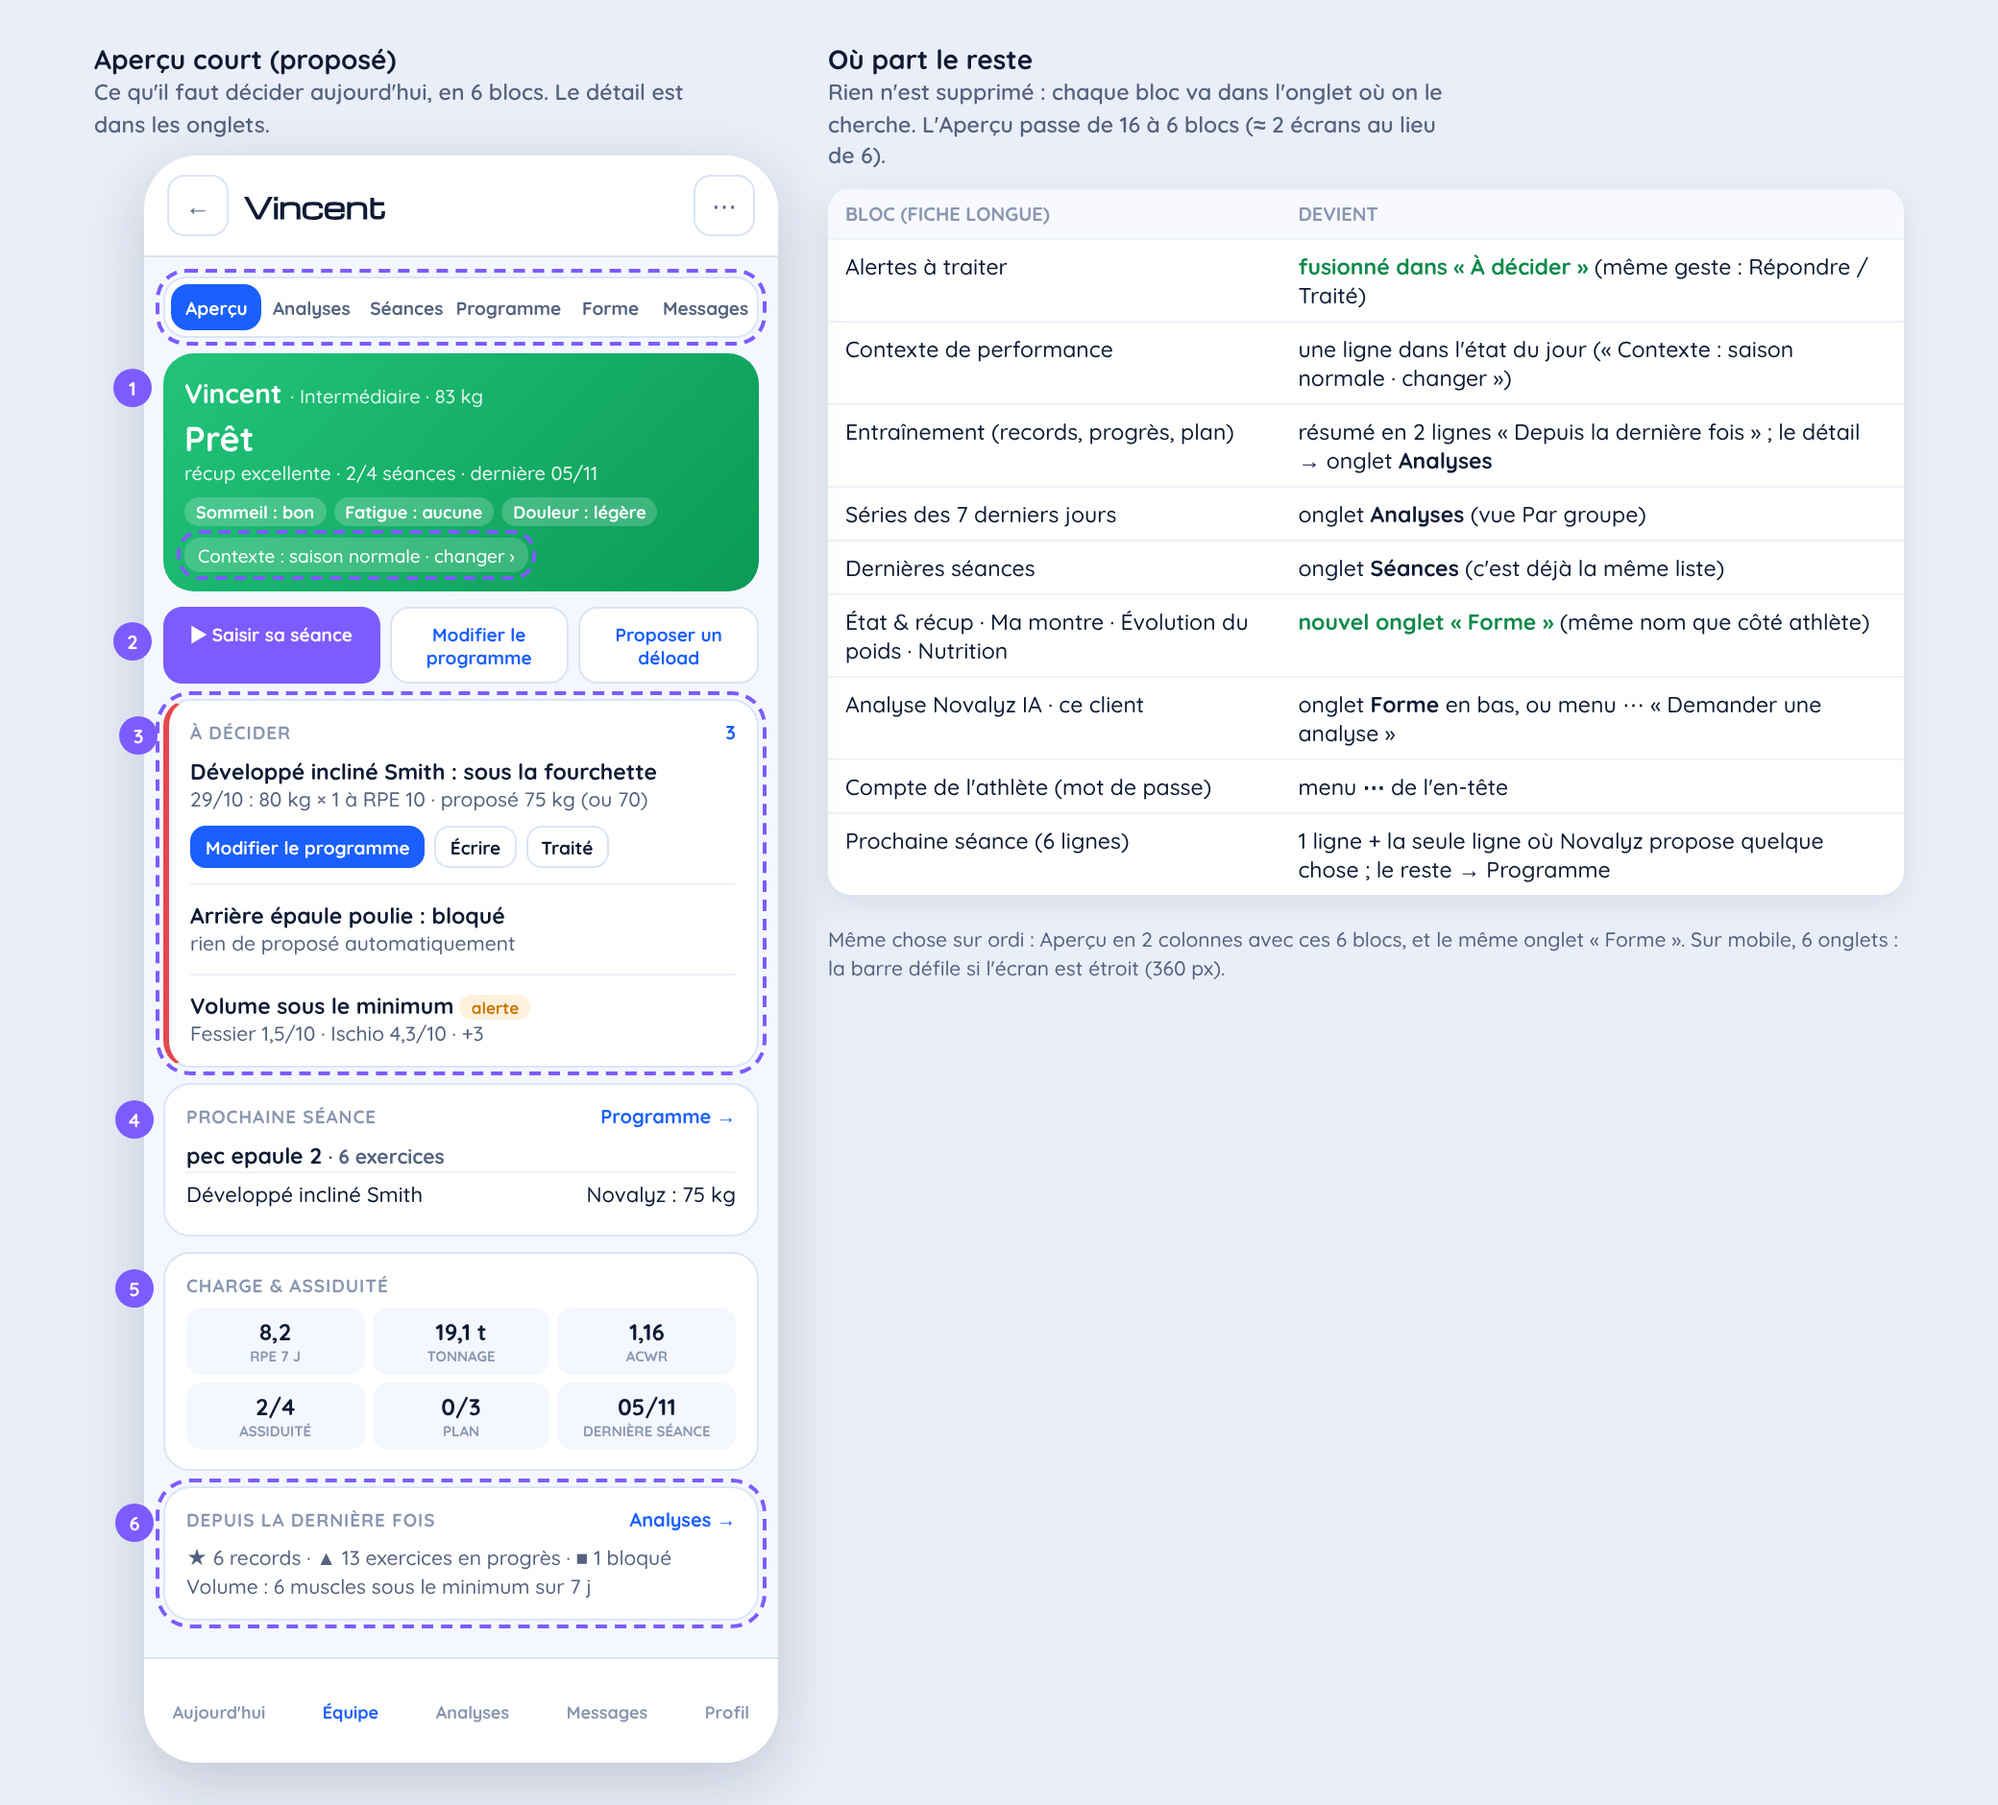
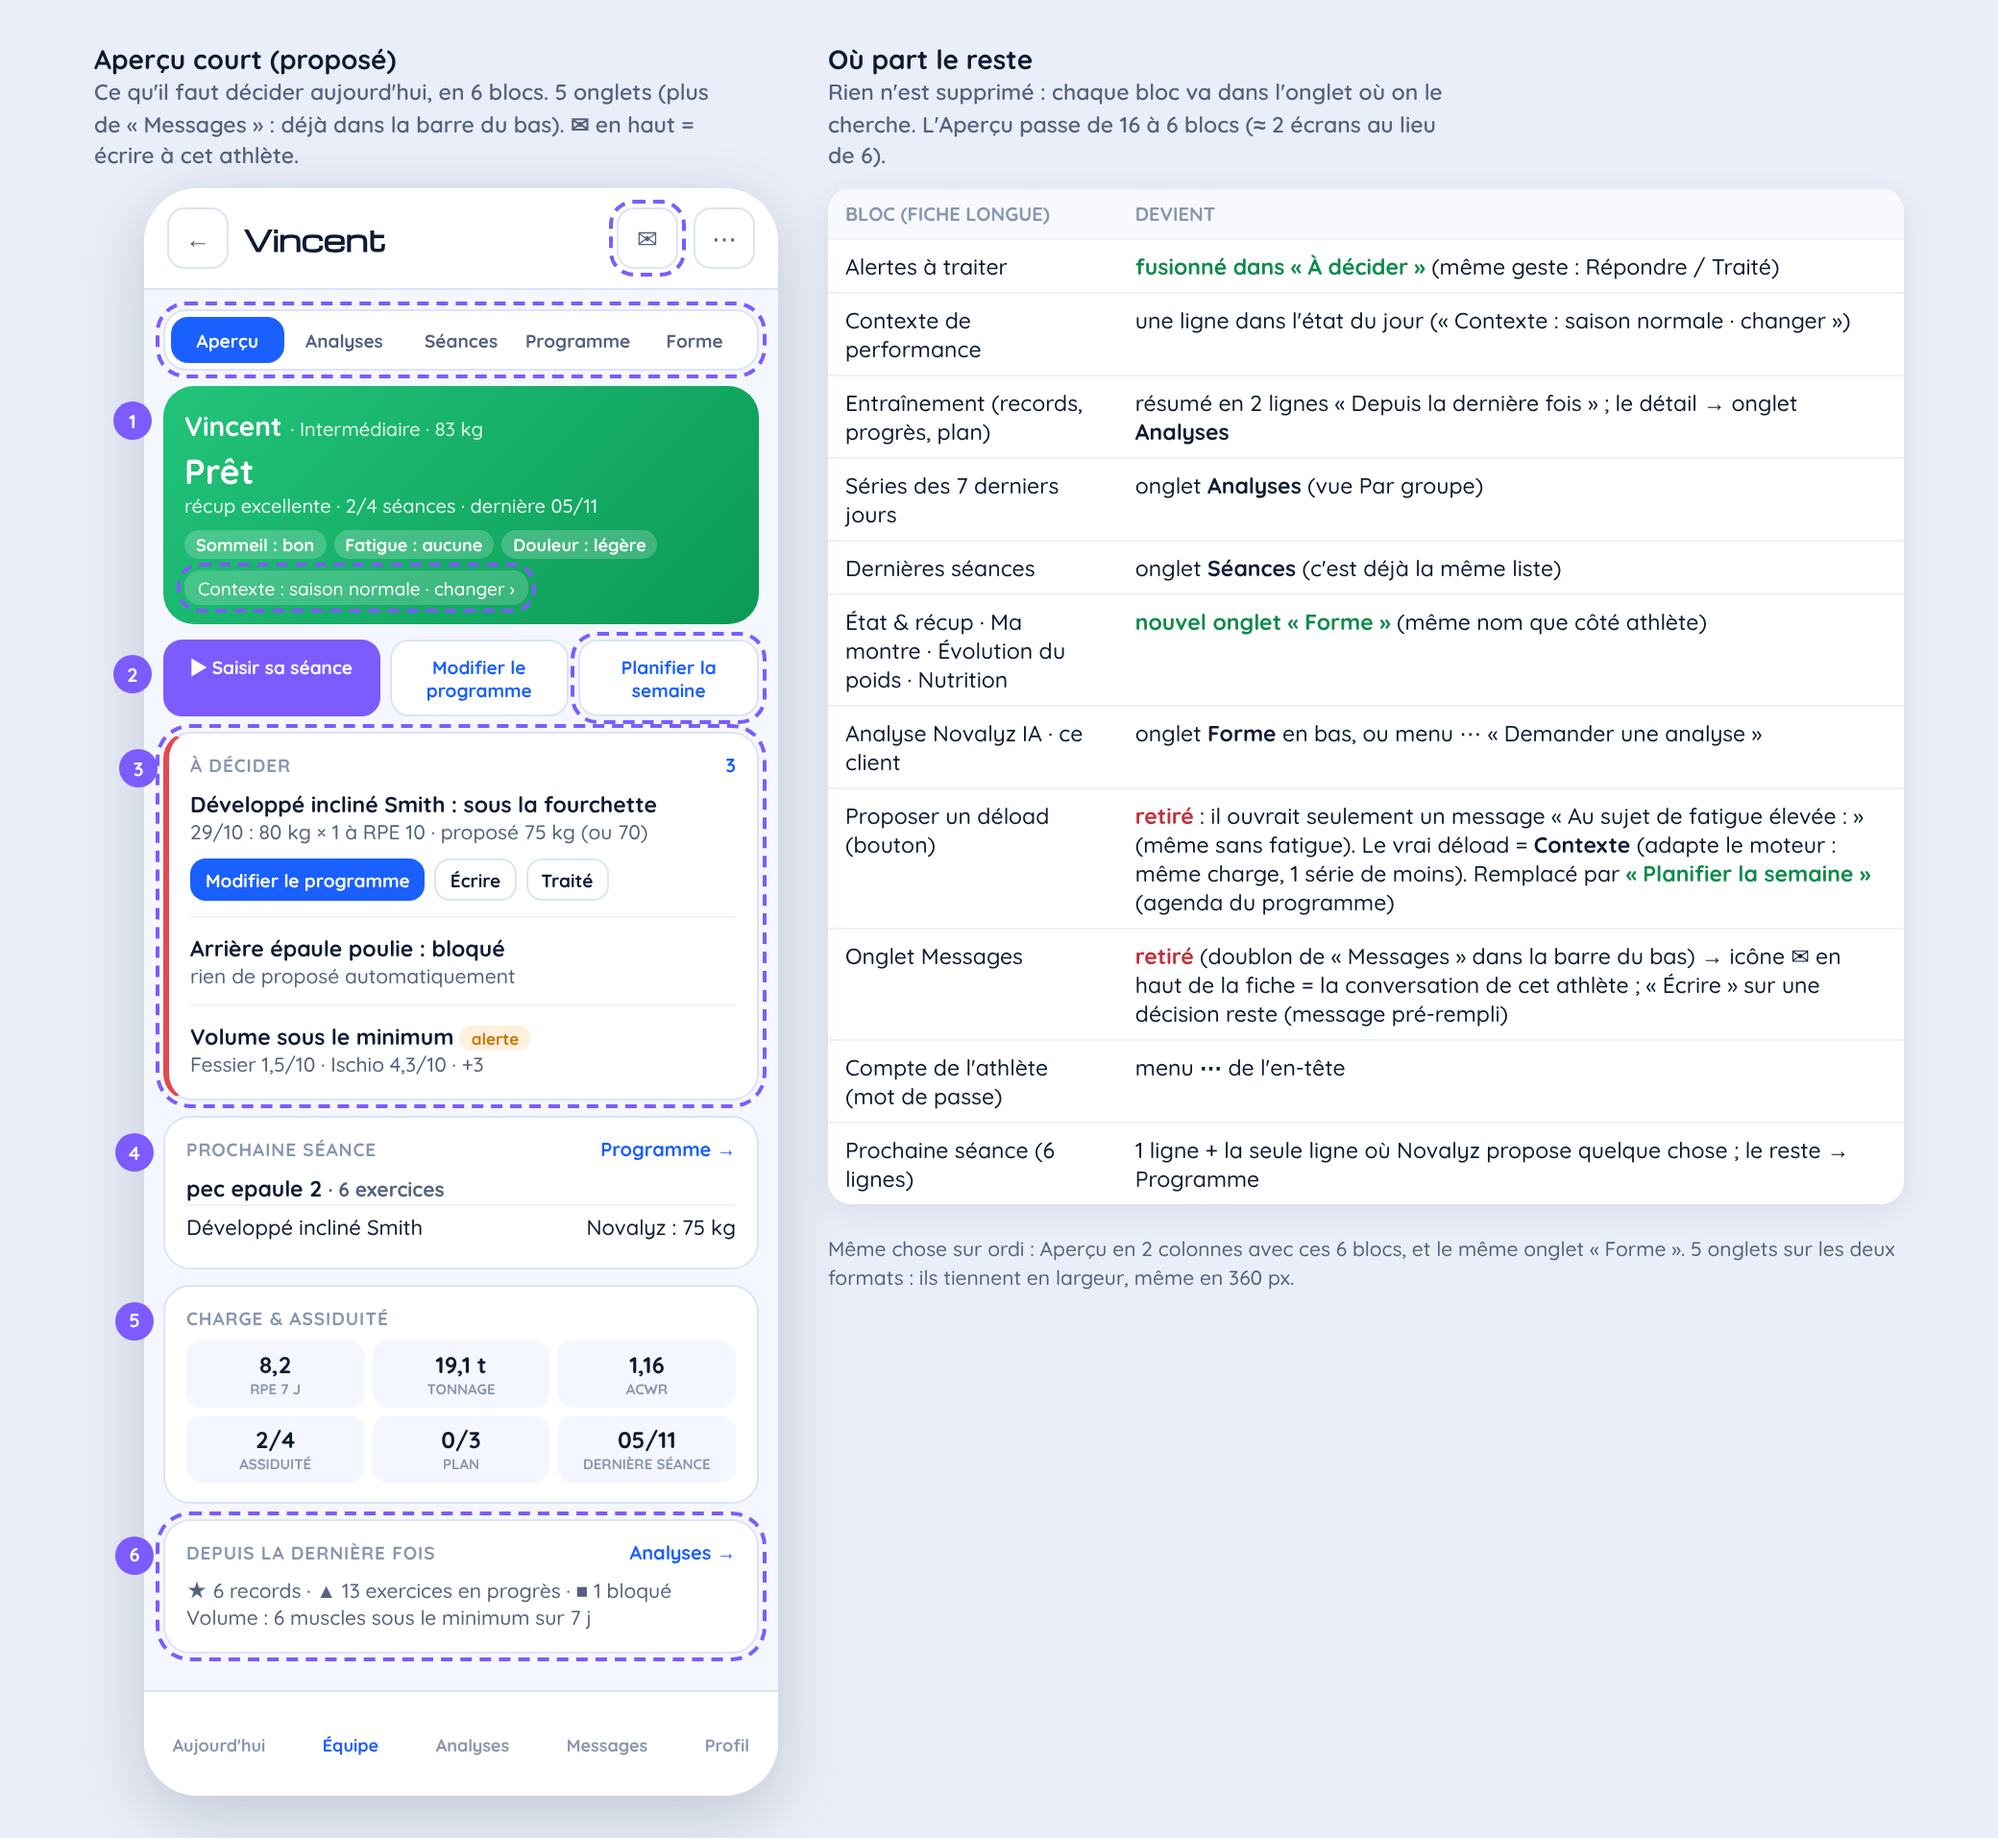
Maquette fiche courte : 5 onglets (Messages retiré, ✉ en en-tête), « Proposer un déload » remplacé par « Planifier la semaine »
Claude-Session: https://claude.ai/code/session_01Cg9q2H2KbjYxG63Do6Xty1

diff --git a/mockups/coach-fiche-courte.html b/mockups/coach-fiche-courte.html
@@ -31,11 +31,11 @@ body{margin:0;background:#E9EEF8;font-family:Quicksand,Arial;color:var(--tx)}
 .del{color:#C0303A;font-weight:800}.add{color:#0f8a4b;font-weight:800}
 .new{outline:2px dashed var(--vi);outline-offset:2px}
 </style></head><body><div class="wrap">
-<div class="col"><div class="cap">Aperçu court (proposé)<small>Ce qu'il faut décider aujourd'hui, en 6 blocs. Le détail est dans les onglets.</small></div>
-<div class="ph" style="margin-left:26px"><div class="hd"><span class="ib">←</span><h1>Vincent</h1><span class="ib">⋯</span></div><div class="bd">
-<div class="tabs new"><span class="on">Aperçu</span><span>Analyses</span><span>Séances</span><span>Programme</span><span>Forme</span><span>Messages</span></div>
+<div class="col"><div class="cap">Aperçu court (proposé)<small>Ce qu'il faut décider aujourd'hui, en 6 blocs. 5 onglets (plus de « Messages » : déjà dans la barre du bas). ✉ en haut = écrire à cet athlète.</small></div>
+<div class="ph" style="margin-left:26px"><div class="hd"><span class="ib">←</span><h1>Vincent</h1><span class="ib new" title="Écrire à Vincent">✉</span><span class="ib">⋯</span></div><div class="bd">
+<div class="tabs new"><span class="on">Aperçu</span><span>Analyses</span><span>Séances</span><span>Programme</span><span>Forme</span></div>
 <div class="fh"><span class="n">1</span><b>Vincent</b> <span style="font-size:10px;opacity:.85">· Intermédiaire · 83 kg</span><div class="t">Prêt</div><div style="font-size:10px;opacity:.9">récup excellente · 2/4 séances · dernière 05/11</div><div class="p"><span>Sommeil : bon</span><span>Fatigue : aucune</span><span>Douleur : légère</span></div><div class="new" style="font-size:9.5px;margin-top:6px;background:rgba(255,255,255,.18);border-radius:8px;padding:3px 7px;display:inline-block">Contexte : saison normale · changer ›</div></div>
-<div class="act"><span class="n">2</span><span class="p">▶ Saisir sa séance</span><span>Modifier le programme</span><span>Proposer un déload</span></div>
+<div class="act"><span class="n">2</span><span class="p">▶ Saisir sa séance</span><span>Modifier le programme</span><span class="new">Planifier la semaine</span></div>
 <div class="card new" style="border-left:3px solid #E5484D"><span class="n">3</span><div class="ct">À décider <a>3</a></div><div class="x">Développé incliné Smith : sous la fourchette</div><div class="mu">29/10 : 80 kg × 1 à RPE 10 · proposé 75 kg (ou 70)</div><div class="btns"><span class="p">Modifier le programme</span><span>Écrire</span><span>Traité</span></div>
  <div class="x" style="margin-top:8px;padding-top:8px;border-top:1px solid #EEF2FB">Arrière épaule poulie : bloqué</div><div class="mu">rien de proposé automatiquement</div>
  <div class="x" style="margin-top:8px;padding-top:8px;border-top:1px solid #EEF2FB">Volume sous le minimum <span class="pill" style="font-size:8.5px;background:#FFF1DE;color:#C77700;border-radius:999px;padding:1px 6px">alerte</span></div><div class="mu">Fessier 1,5/10 · Ischio 4,3/10 · +3</div></div>
@@ -54,8 +54,10 @@ body{margin:0;background:#E9EEF8;font-family:Quicksand,Arial;color:var(--tx)}
 <tr><td>Dernières séances</td><td>onglet <b>Séances</b> (c'est déjà la même liste)</td></tr>
 <tr><td>État &amp; récup · Ma montre · Évolution du poids · Nutrition</td><td><span class="add">nouvel onglet « Forme »</span> (même nom que côté athlète)</td></tr>
 <tr><td>Analyse Novalyz IA · ce client</td><td>onglet <b>Forme</b> en bas, ou menu ⋯ « Demander une analyse »</td></tr>
+<tr><td>Proposer un déload (bouton)</td><td><span class="del">retiré</span> : il ouvrait seulement un message « Au sujet de fatigue élevée : » (même sans fatigue). Le vrai déload = <b>Contexte</b> (adapte le moteur : même charge, 1 série de moins). Remplacé par <span class="add">« Planifier la semaine »</span> (agenda du programme)</td></tr>
+<tr><td>Onglet Messages</td><td><span class="del">retiré</span> (doublon de « Messages » dans la barre du bas) → icône ✉ en haut de la fiche = la conversation de cet athlète ; « Écrire » sur une décision reste (message pré-rempli)</td></tr>
 <tr><td>Compte de l'athlète (mot de passe)</td><td>menu <b>⋯</b> de l'en-tête</td></tr>
 <tr><td>Prochaine séance (6 lignes)</td><td>1 ligne + la seule ligne où Novalyz propose quelque chose ; le reste → Programme</td></tr>
 </table>
-<div class="mu" style="margin-top:8px">Même chose sur ordi : Aperçu en 2 colonnes avec ces 6 blocs, et le même onglet « Forme ». Sur mobile, 6 onglets : la barre défile si l'écran est étroit (360 px).</div>
+<div class="mu" style="margin-top:8px">Même chose sur ordi : Aperçu en 2 colonnes avec ces 6 blocs, et le même onglet « Forme ». 5 onglets sur les deux formats : ils tiennent en largeur, même en 360 px.</div>
 </div></div></body></html>
